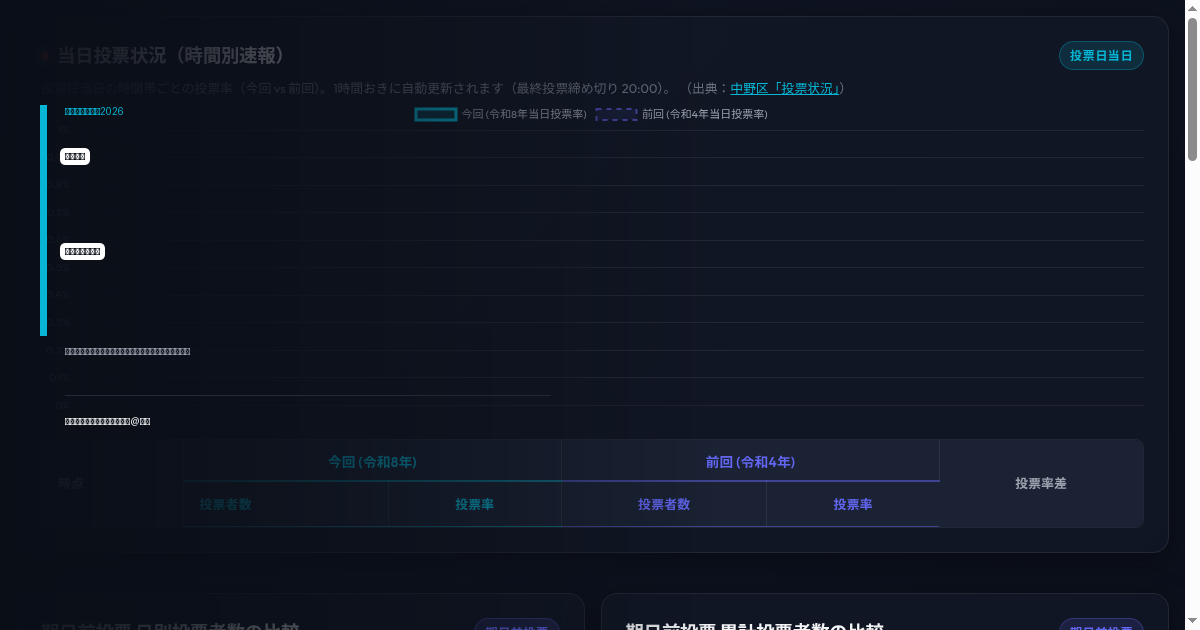
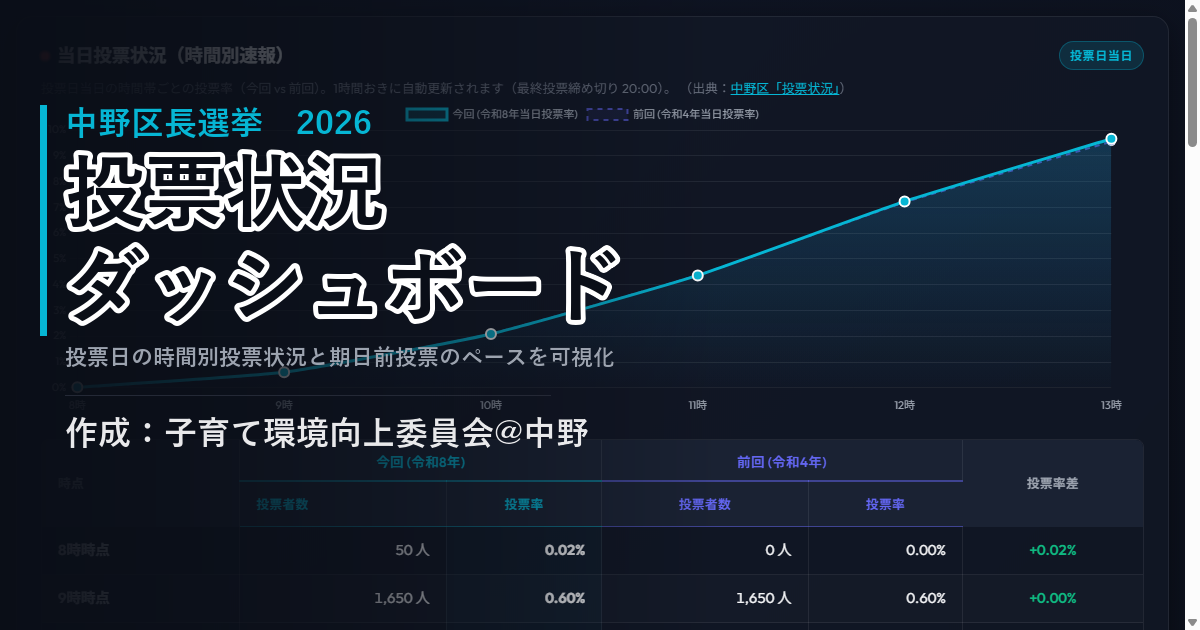
fix: 中野区公式サイトの数値タイポに対応するためパーサーを修正し、当日投票データを復旧。また、当日データ空時の安全終了処理を追加

diff --git a/index.html b/index.html
@@ -13,14 +13,14 @@
     <meta property="og:url" content="https://kawazusa.github.io/2026nakanovoting_rate/">
     <meta property="og:title" content="中野区長選挙 投票状況ダッシュボード (前回 vs 今回)">
     <meta property="og:description" content="前回（令和4年）と今回（令和8年）の中野区長選挙の投票状況（期日前・当日投票率）をリアルタイムに比較できるダッシュボードです。毎日21:15頃に最新データへ自動更新されます。">
-    <meta property="og:image" content="https://kawazusa.github.io/2026nakanovoting_rate/ogp-image.png?v=202606070437">
+    <meta property="og:image" content="https://kawazusa.github.io/2026nakanovoting_rate/ogp-image.png?v=202606071348">
 
     <!-- Twitter -->
     <meta name="twitter:card" content="summary_large_image">
     <meta name="twitter:url" content="https://kawazusa.github.io/2026nakanovoting_rate/">
     <meta name="twitter:title" content="中野区長選挙 投票状況ダッシュボード (前回 vs 今回)">
     <meta name="twitter:description" content="前回（令和4年）と今回（令和8年）の中野区長選挙の投票状況（期日前・当日投票率）をリアルタイムに比較できるダッシュボードです。毎日21:15頃に最新データへ自動更新されます。">
-    <meta name="twitter:image" content="https://kawazusa.github.io/2026nakanovoting_rate/ogp-image.png?v=202606070437">
+    <meta name="twitter:image" content="https://kawazusa.github.io/2026nakanovoting_rate/ogp-image.png?v=202606071348">
     
     <!-- Google Fonts -->
     <link rel="preconnect" href="https://fonts.googleapis.com">
@@ -31,7 +31,7 @@
     <script src="https://cdn.jsdelivr.net/npm/chart.js"></script>
     
     <!-- Custom CSS -->
-    <link rel="stylesheet" href="styles.css?v=202606070437">
+    <link rel="stylesheet" href="styles.css?v=202606071348">
 </head>
 <body>
     <div class="app-container">
@@ -331,7 +331,7 @@
     </div>
 
     <!-- Data & Script files -->
-    <script src="data.js?v=202606070437"></script>
-    <script src="app.js?v=202606070437"></script>
+    <script src="data.js?v=202606071348"></script>
+    <script src="app.js?v=202606071348"></script>
 </body>
 </html>

diff --git a/data.js b/data.js
@@ -31,7 +31,50 @@ const votingData = {
   ],
   
   // 当日投票状況 (時間別速報)
-  todayVoting: [],
+  todayVoting: [
+      {
+          "time": "8時",
+          "currentVotes": 50,
+          "currentRate": 0.02,
+          "previousVotes": 0,
+          "previousRate": 0.0
+      },
+      {
+          "time": "9時",
+          "currentVotes": 1650,
+          "currentRate": 0.6,
+          "previousVotes": 1650,
+          "previousRate": 0.6
+      },
+      {
+          "time": "10時",
+          "currentVotes": 5750,
+          "currentRate": 2.09,
+          "previousVotes": 5750,
+          "previousRate": 2.1
+      },
+      {
+          "time": "11時",
+          "currentVotes": 12000,
+          "currentRate": 4.36,
+          "previousVotes": 11950,
+          "previousRate": 4.37
+      },
+      {
+          "time": "12時",
+          "currentVotes": 19900,
+          "currentRate": 7.23,
+          "previousVotes": 19650,
+          "previousRate": 7.19
+      },
+      {
+          "time": "13時",
+          "currentVotes": 26600,
+          "currentRate": 9.66,
+          "previousVotes": 26100,
+          "previousRate": 9.55
+      }
+  ],
   
   // 今回 (令和8年6月7日執行 中野区長選挙)
   current: {

diff --git a/update_data.py b/update_data.py
@@ -191,9 +191,9 @@ def get_hourly_voting():
         for m in reversed(matches):
             time_label = m[0].replace("時点", "")
             
-            curr_votes = int(m[1].replace(",", ""))
+            curr_votes = int(m[1].replace(",", "").replace(".", ""))
             curr_rate = float(m[2])
-            prev_votes = int(m[3].replace(",", ""))
+            prev_votes = int(m[3].replace(",", "").replace(".", ""))
             prev_rate = float(m[4])
             
             hourly_data.append({
@@ -410,6 +410,11 @@ def main():
         # Fetch hourly voting data
         hourly_data = get_hourly_voting()
         
+        # On election day (2026-06-07), hourly data must be successfully retrieved.
+        # If it is empty, raise an exception to abort and prevent writing empty data.js.
+        if datetime.now().strftime("%Y-%m-%d") == "2026-06-07" and len(hourly_data) == 0:
+            raise Exception("Election Day hourly voting data fetched empty! Scraping failed or blocked.")
+            
         # Overwrite data.js
         generate_data_js(male_data, female_data, hourly_data, "data.js")
         
